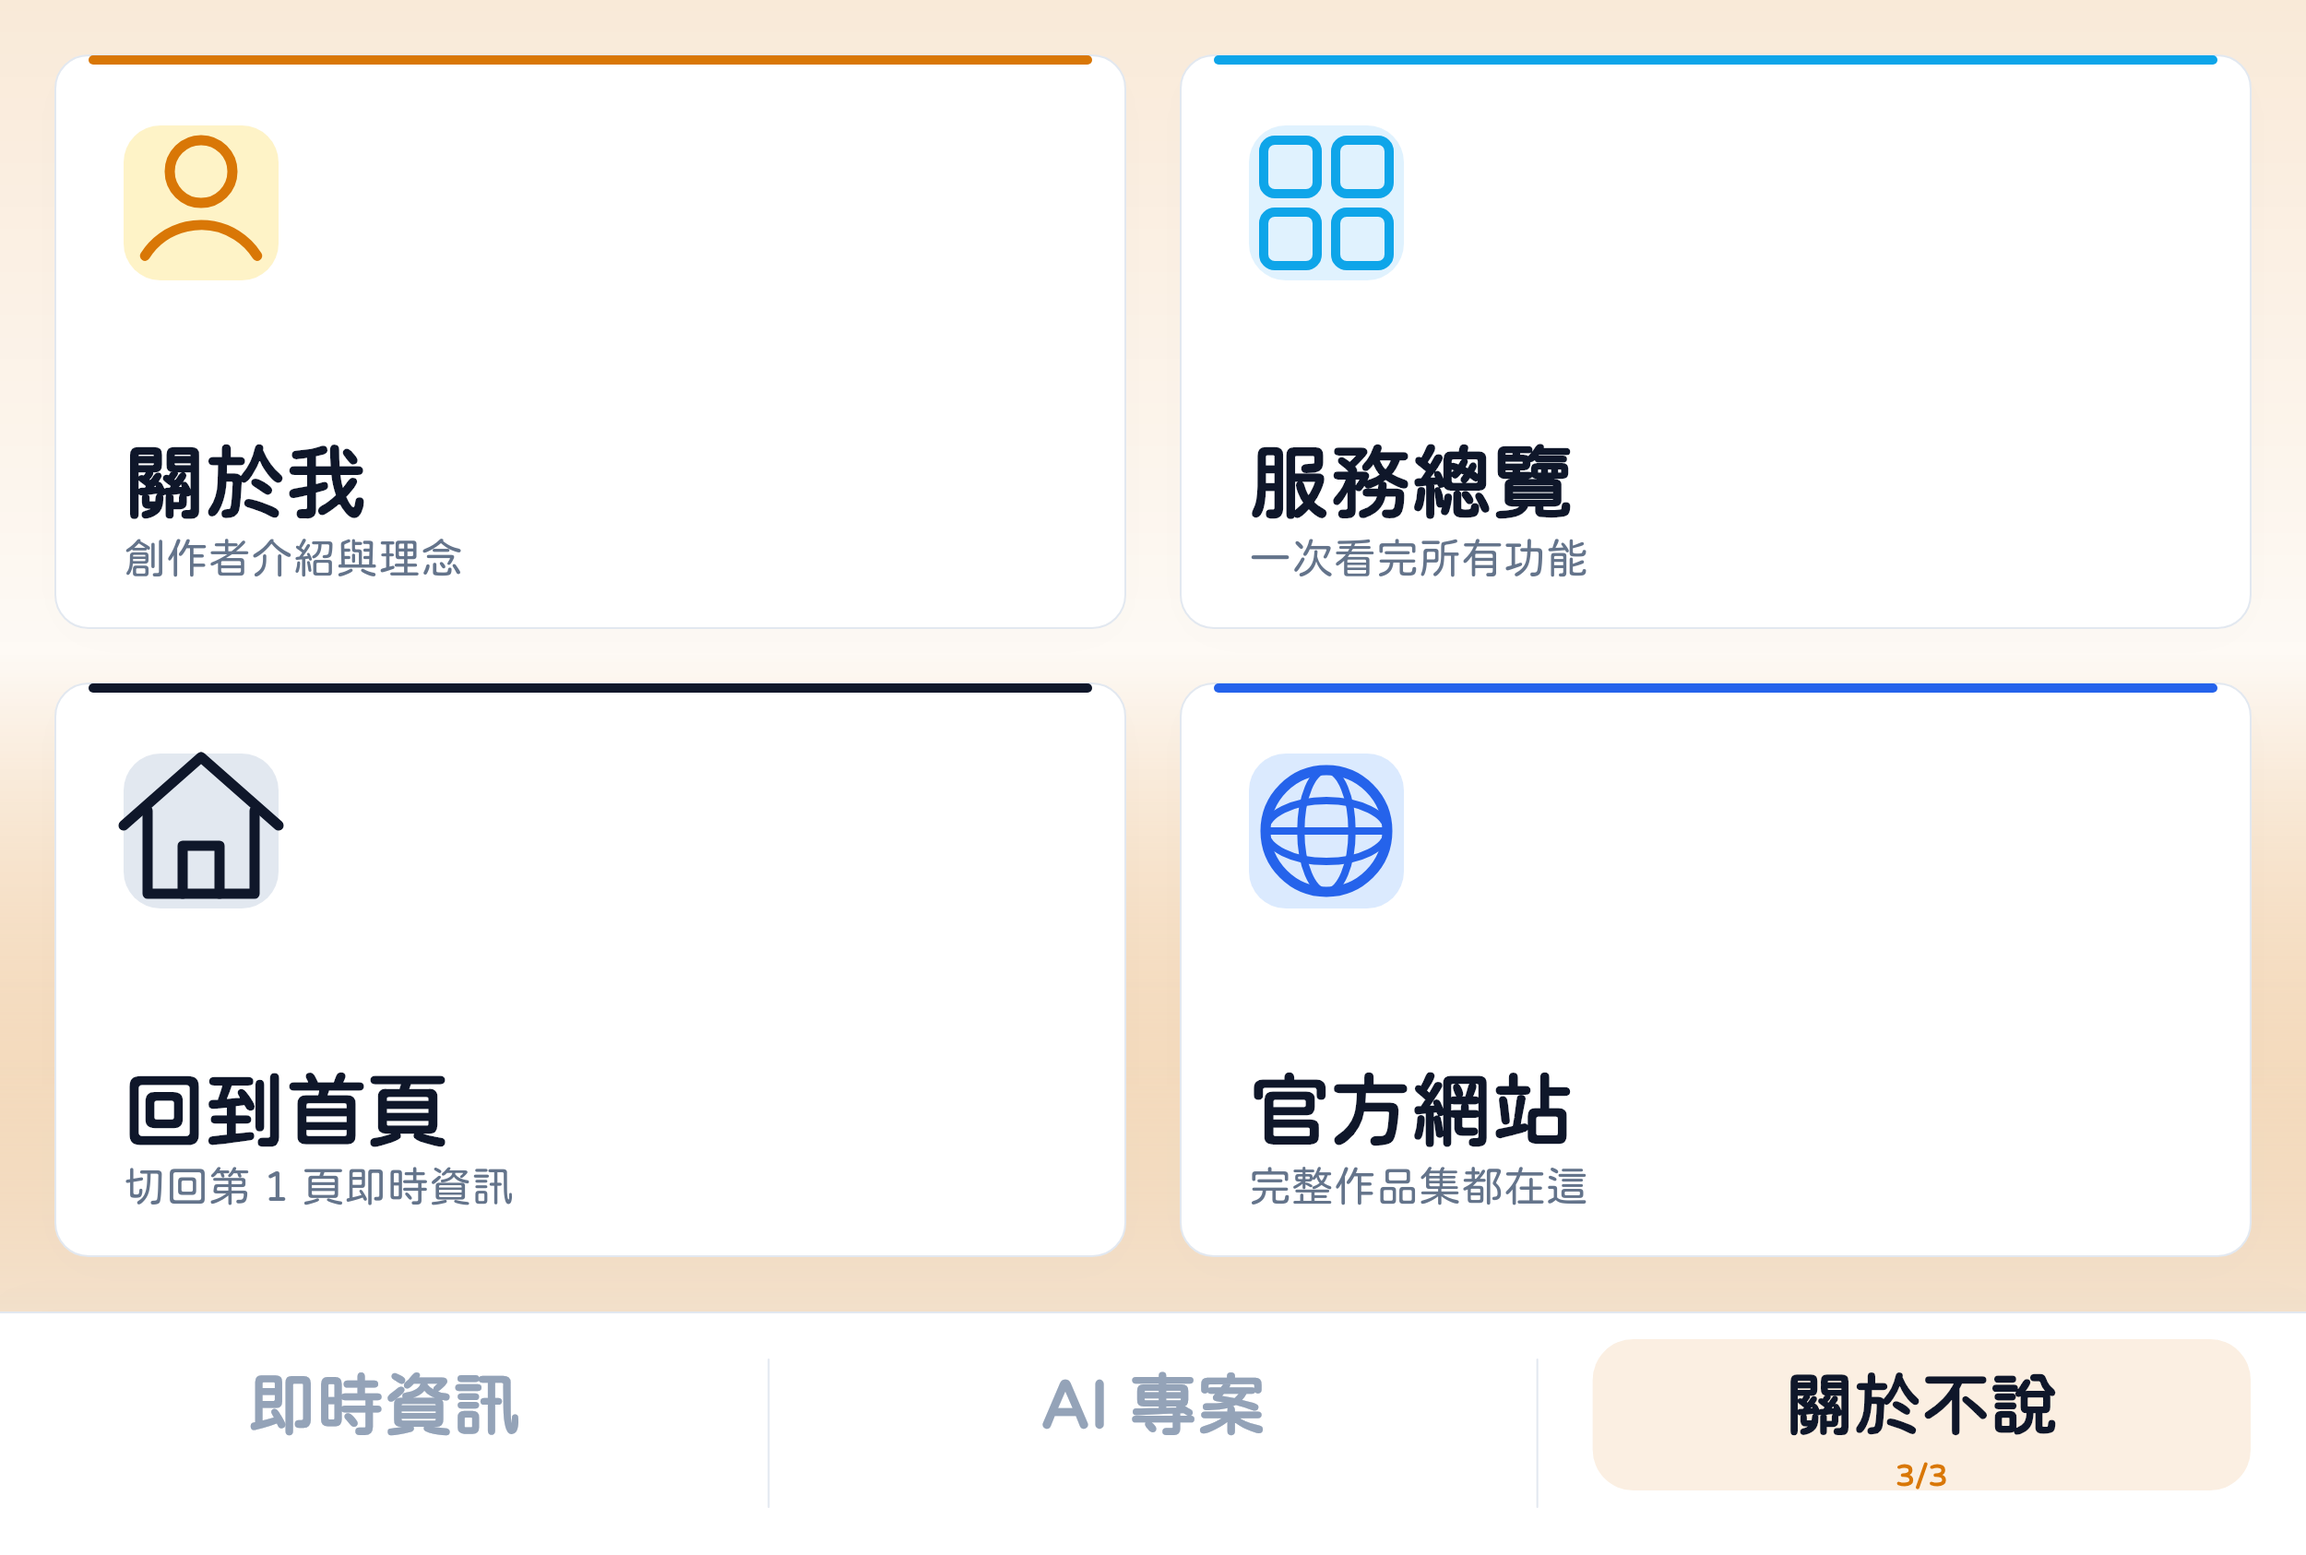
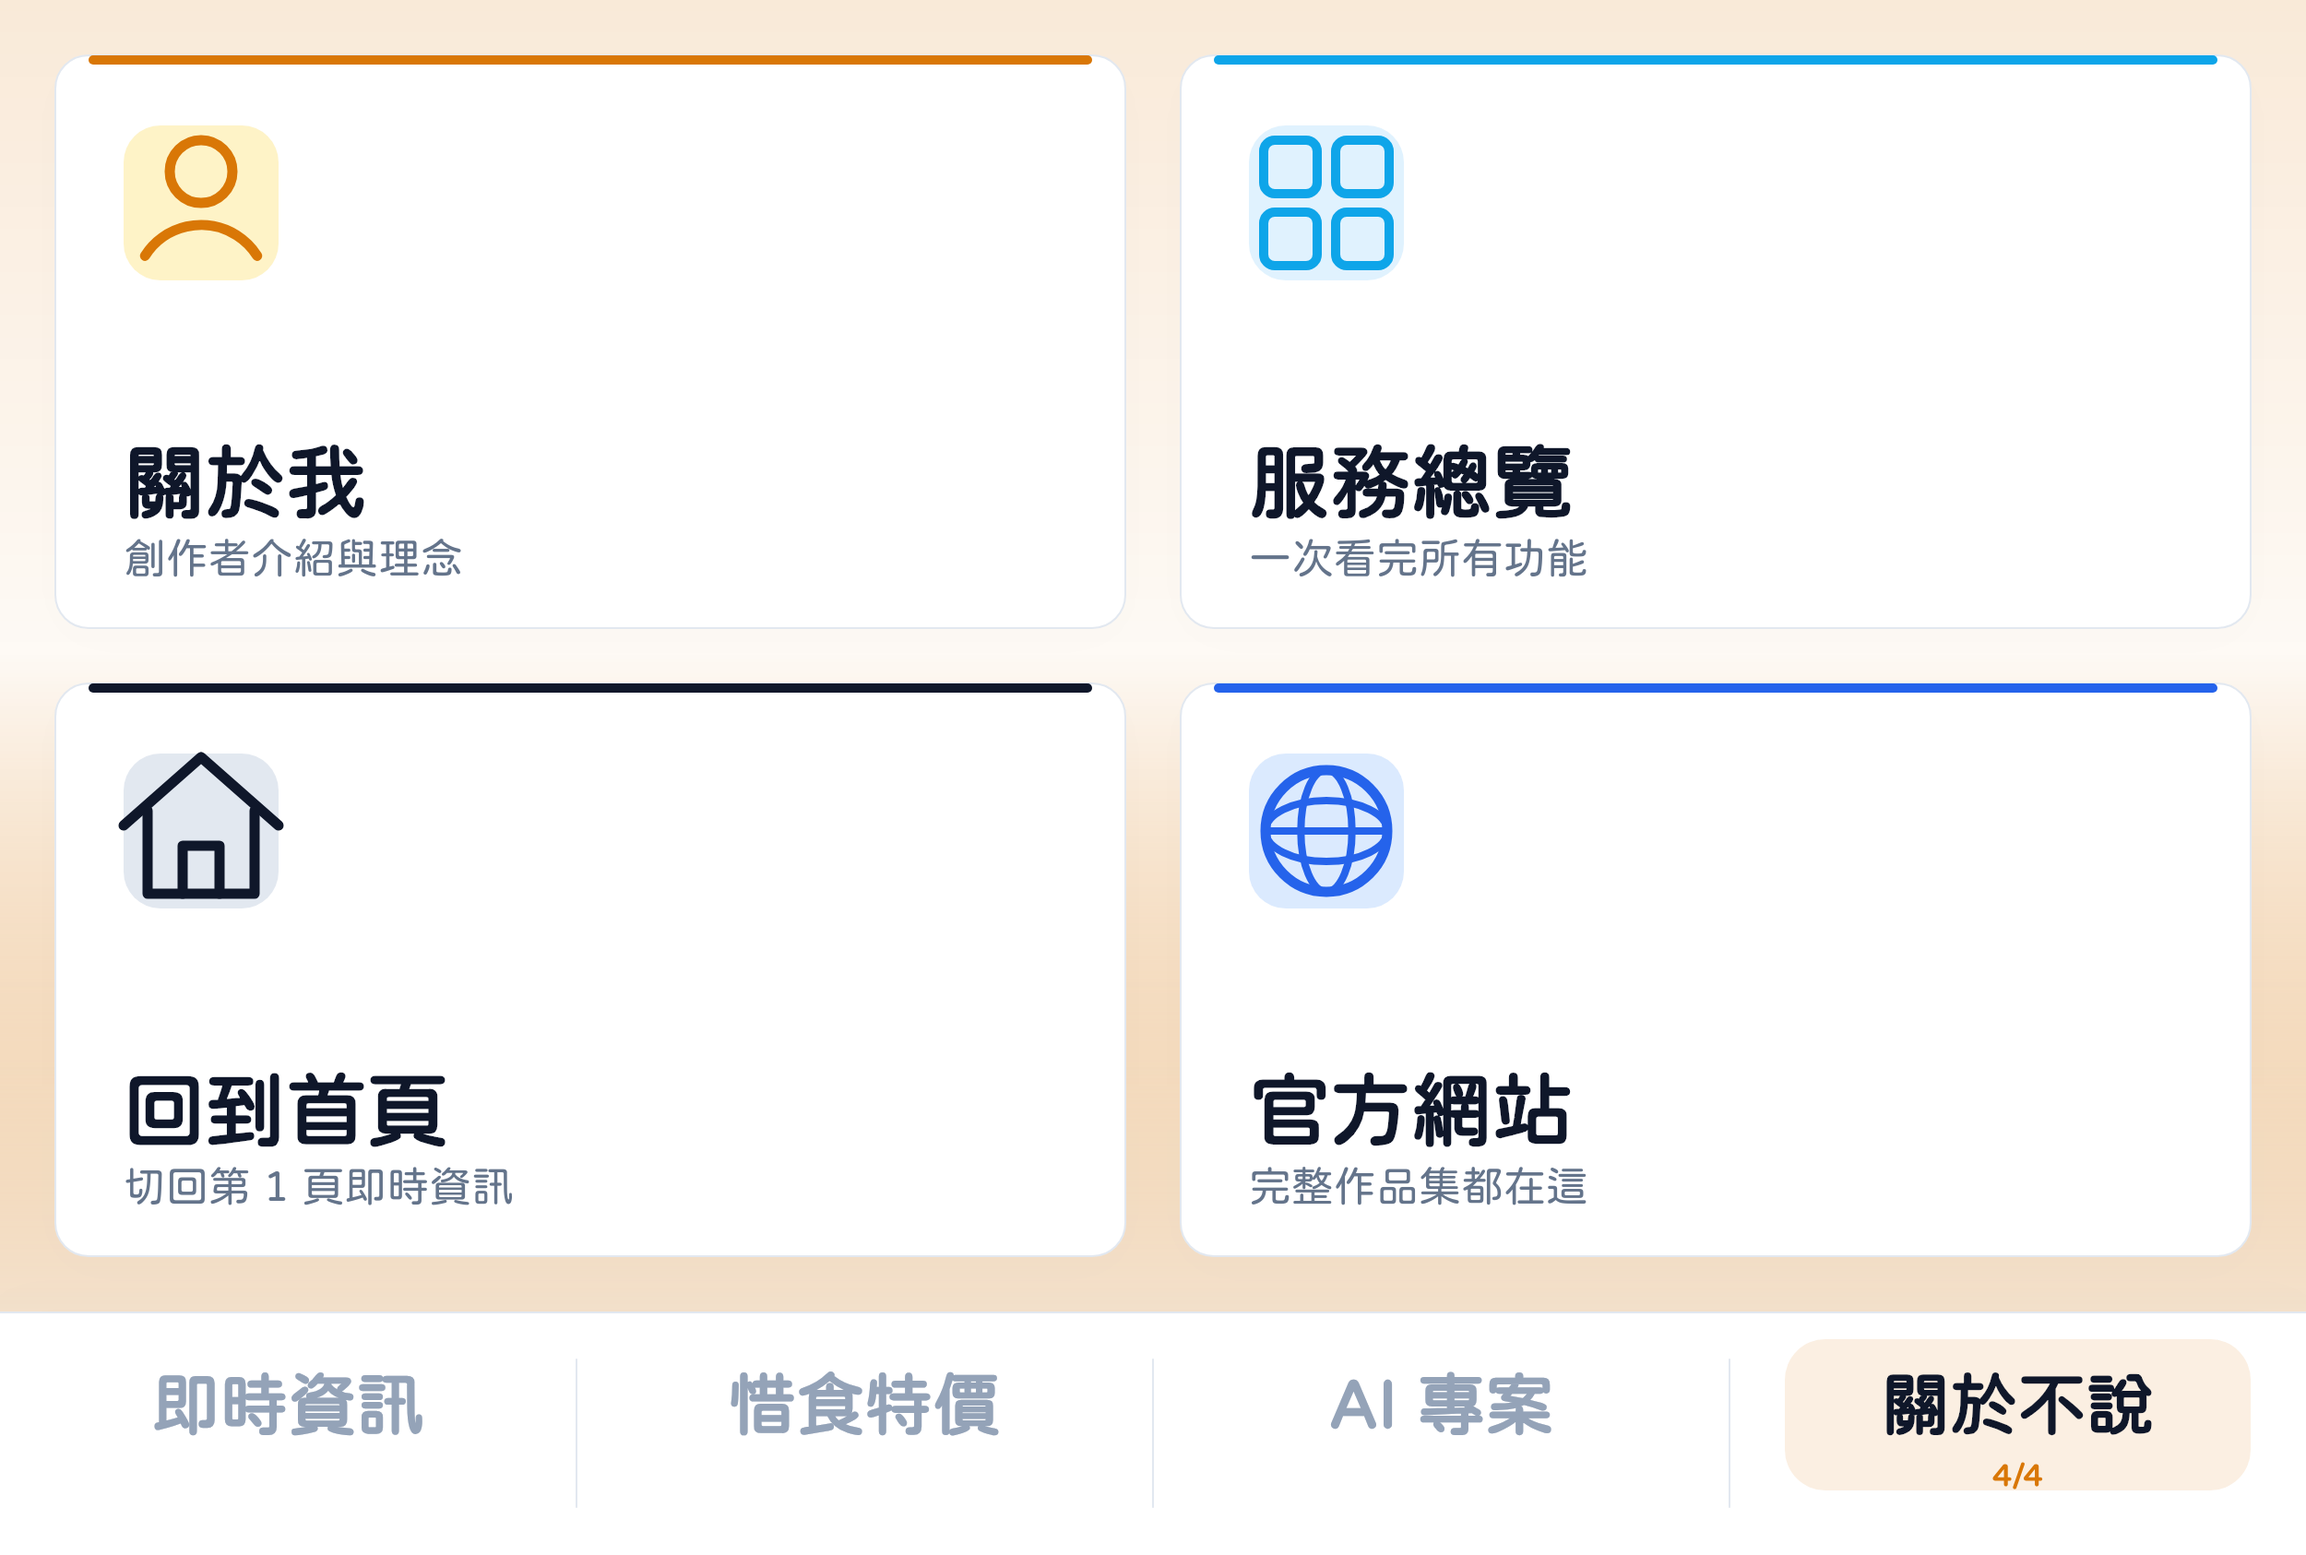
docs(line): replit.md 補惜食服務與 4 頁 rich menu;更新預覽圖、移除舊 2 頁版圖

Changed region(s): [[0.312, 0.8636, 0.936, 0.9561], [0.0624, 0.8636, 0.2496, 0.9253]]

diff --git a/replit.md b/replit.md
@@ -30,9 +30,10 @@
   - `stock.ts` — ~50 台灣50-style large caps + ~6 熱門 ETF, grouped into `SECTORS` (半導體/電子・網通/金融/傳產・航運/熱門 ETF), 紅漲綠跌. **HYBRID data source with graceful fallback:** 個股 OHLC 先抓擁有者自己的網站 `GET donttalk.vercel.app/api/stock/<bareCode>` (daily candles; `fetchSiteCandles` GUARDS against the backend's silent 台積電 fallback by requiring returned `code` === requested, and cache-busts Vercel's edge cache) — 站內離線 / 該檔未收錄 → 自動 fallback `fetchYahooCandles(sym)` 拿 OHLC,只缺 tradePlan / markers / performance 區塊,走勢圖照樣能畫; 大盤指數 (^TWII) + ETF 仍直接走 Yahoo (`usesYahoo(sym,code)` routes)。`stockMenu()` = LIVE 快報 (INDEX+HEADLINES) + tappable directory bubbles (no live fetch); `stockTrend(sym)` renders a flex bar chart + month high/low/period change。`resolveStock(text)` accepts names or 4–6 digit codes.
   - `protein.ts` — `proteinGuide(step)` 5-step walkthrough of the ESM-2 / Bayesian-Opt / ProteinMPNN / REINFORCE pipeline; `proteinAnalyze(seq)` does REAL physicochemical calc (length, MW, GRAVY Kyte-Doolittle, pI via pKa charge bisection, composition bars); `looksLikeProteinSeq` gates raw-sequence detection.
   - `music.ts` (live MV carousel from the site), `projects.ts` (portfolio project link cards).
+  - `food.ts` / `food-source.ts` — 惜食特價(超商即期品折扣):`FOOD_STORES` 存四家超商的常態折扣時段(7-11 珍食 / 全家 友善食光 / 萊爾富 惜福食堂 / OK超商 午後6折),`foodStatus()` 算現在是「折扣中 / 未開始 / 已結束 / 依標籤」,`foodRescue()` 出 FOOD RESCUE flex 卡,`foodScheduleText()` 出可複製的純文字時段表。`food-source.ts` 會去爬各超商官方公告(目前只有全家 `nevent.family.com.tw/cherishfood/` 抓得到純文字時段),30 分鐘快取 + 全失敗時 5 分鐘短快取,抓不到就退回常態時段。時間一律用 Asia/Taipei 算。
   - `flex.ts` — LINE message/flex builders + helpers: `pill`, `gaugeBar`, `dot`, `subtleLink`, `pickRow` (tappable postback list row), `barChart` (mini trend chart), and `quickReply` (emits a postback action when a `QuickItem` has `data`, else a message action).
   - `router.ts` — keyword routing + `routePostback(data, ctx)` (parses URLSearchParams `s=wx|stk|pro`); rich "mega" main menu with colored per-service icon chips + descriptions. Keyword ORDER matters — see Gotchas.
-- `scripts/src/setup-line-richmenu.ts` — renders a **2-tab (多頁籤) rich menu** (`@napi-rs/canvas`, jf-openhuninn font, refined white-card style) and publishes it to LINE via native rich-menu switching. Two tabs: 即時工具 (潛水海況/股票走勢/蛋白質設計/完整選單) + 創作作品 (音樂欣賞/專案介紹/關於我/個人網站 URI). Top tab-bar areas use `richmenuswitch` actions against rich-menu aliases (`portfolio-tools`/`portfolio-creations`); tile buttons send the same text keywords `routeMessage` recognizes. Publish flow deletes aliases BEFORE rich menus (teardown order matters), creates both menus, uploads PNGs, creates aliases, sets 即時工具 as default. Run `pnpm --filter @workspace/scripts run setup-line-richmenu` (preview → writes `assets/richmenu-tools.png` + `richmenu-creations.png`) or prefix `APPLY=1` to publish
+- `scripts/src/setup-line-richmenu.ts` — renders a **4-tab (多頁籤) rich menu** (`@napi-rs/canvas`, jf-openhuninn font, refined white-card style) and publishes it to LINE via native rich-menu switching. Four tabs: 即時資訊 (潛水海況/台股快訊/個股查詢/音樂欣賞) + 惜食特價 (惜食特價/折扣時段/服務選單/回到首頁) + AI 專案 (蛋白質設計/專案介紹/完整選單/個人網站 URI) + 關於不說 (關於我/服務總覽/回到首頁/官方網站). Bottom tab-bar areas use `richmenuswitch` actions against rich-menu aliases (`bot-news`/`bot-food`/`bot-projects`/`bot-about`); tile buttons send the same text keywords `routeMessage` recognizes. **Publish is INCREMENTAL (`publishRichMenus()`)**: existing pages keep their `richMenuId` + alias (only areas/name/image are updated), missing pages are created — the old delete-everything flow wiped externally published pages (that's how the 惜食 page disappeared in 2026-10). Run `pnpm --filter @workspace/scripts run setup-line-richmenu` (preview → writes `assets/richmenu-<tab>.png`) or prefix `APPLY=1` to publish
 - `artifacts/api-server/src/lib/auth.ts` — stateless signed-cookie session auth for the admin panel
 - `artifacts/api-server/src/routes/line-webhook.ts` — LINE webhook handler (`POST /api/line/webhook`); routes text `message` events through `routeMessage`, `postback` events (card buttons / data-carrying quick reply chips) through `routePostback`, and sends the main menu on `follow`
 - `artifacts/api-server/src/routes/{auth,profile,broadcasts,stats}.ts` — admin panel API routes (broadcasts supports text/image/flex-card kinds + scheduled sends)
